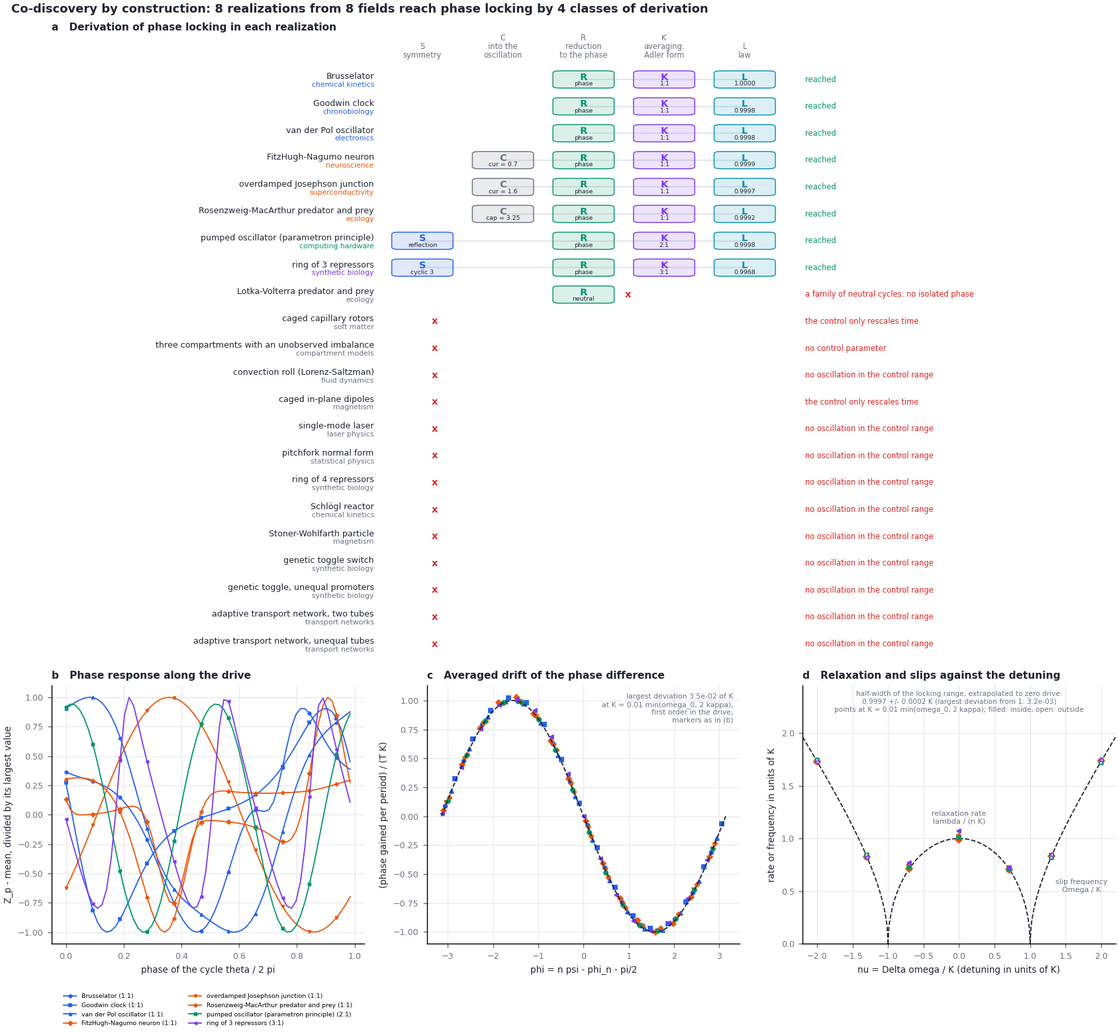
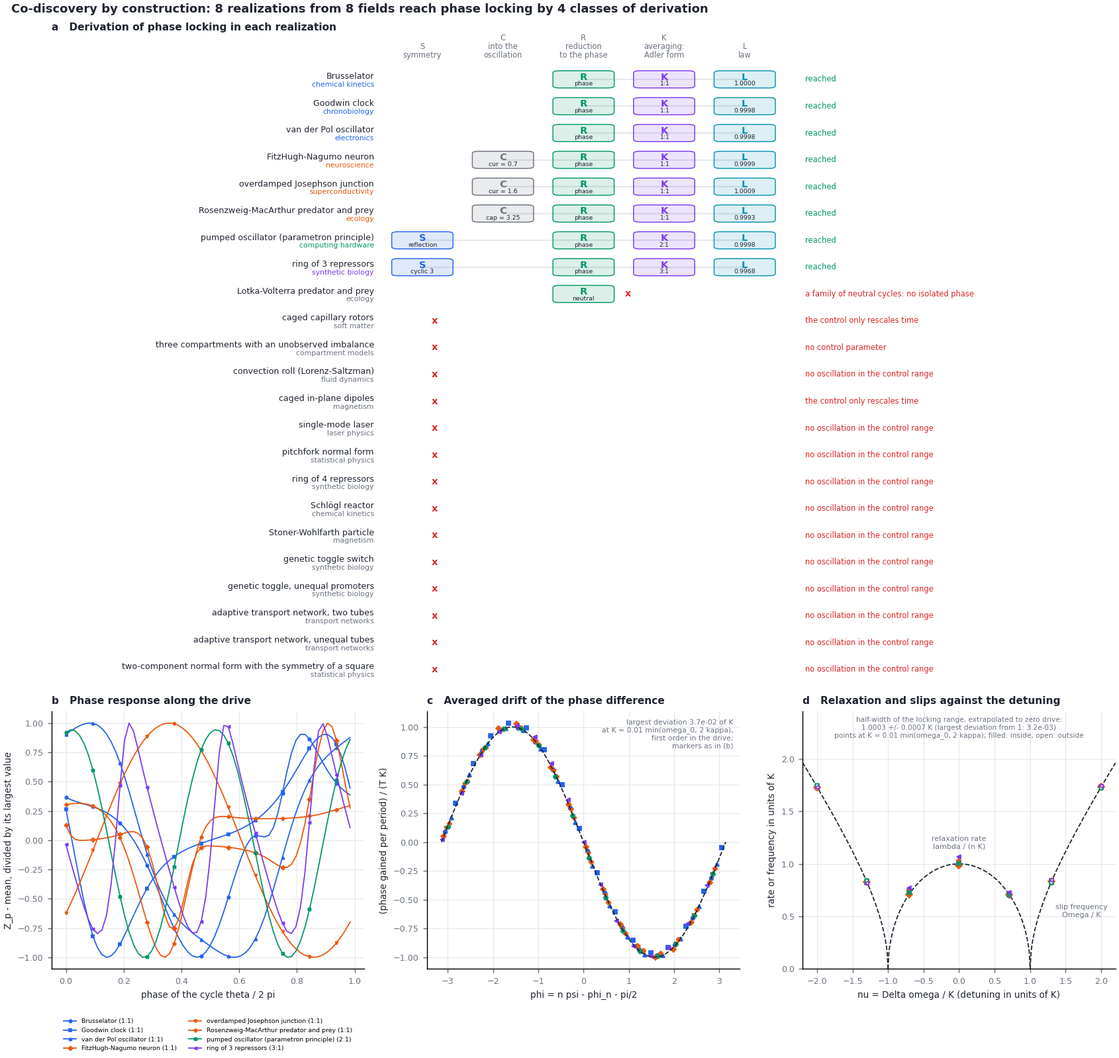
Seed each co-discovery derivation by its material, not by file order
memory codiscover passed one generator to every realization in the order of
the specification files, so a specification that sorted early re-drew every
later realization, and the default runs of Modules 9 to 11 changed whenever a
material was added although no equation had changed. codiscovery.codiscover
now takes the seed and gives each realization discovery.card_rng(seed, name),
the stream of its material, as the gallery and the catalog do since 614cb1d;
the replicate runs of the swept-write law are spawned from that stream as
before. A test inserts a specification that sorts first and checks that the
draws of the other materials, and the law runs of a derivation, are
unchanged.

The default runs of Modules 9 to 11 were repeated. Every derivation word and
class is unchanged; the numbers drawn from the streams moved:
- Module 9: law constant 1.350 +- 0.019 over seven models, chi^2 = 5.0 for 7
  values (was 1.326 +- 0.019, chi^2 = 3.5); seeds 11 to 14 now give 1.342,
  1.352, 1.310 and 1.323. Largest even part 2.2e-9 (ring of 4; was 9e-10).
  The table gains the two-component normal form, which stops at R.
- Module 10: the capillary rotors and the dipoles write toward other sampled
  pairs (h = 4.2912 and 0.1776; main still gives the documented 1.6335 and
  0.02038). For the new dipole pair the fast sweeps start off the branch of
  the occupied state, and the delay fit gives 1.08 +- 0.31, which does not
[…]

diff --git a/tests/test_memory_constructor.py b/tests/test_memory_constructor.py
@@ -544,7 +544,7 @@ def test_above_six_variables_a_ring_is_turned_and_reflected_cell_by_cell():
 
 def test_the_write_law_has_the_same_constant_in_a_laser_and_a_toggle():
     from fieldbridge.memory import codiscovery as cd
-    rep = cd.codiscover([load("laser"), load("toggle")], np.random.default_rng(5), n_traj=1000)
+    rep = cd.codiscover([load("laser"), load("toggle")], 5, n_traj=1000)
     s = rep["summary"]
     assert s["reached"] == 2 and s["fields_reached"] == ["laser physics", "synthetic biology"]
     assert len(s["derivation_classes"]) == 2
@@ -555,8 +555,7 @@ def test_realizations_that_simulate_the_same_equations_count_as_one_model():
     """The unequal toggle, unfolded to equal promoters, is the toggle: its law constant is a replicate of the
     toggle's, not a second model. The laser reduces to the same canonical form by other equations."""
     from fieldbridge.memory import codiscovery as cd
-    rep = cd.codiscover([load(n) for n in ("toggle", "toggle_unequal", "laser")], np.random.default_rng(3),
-                        n_traj=400, replicates=4)
+    rep = cd.codiscover([load(n) for n in ("toggle", "toggle_unequal", "laser")], 3, n_traj=400, replicates=4)
     s = rep["summary"]
     assert s["law_constant_realizations"] == 3 and s["law_constant_dof"] == 2
     assert s["same_equations"] == [[load("toggle").name, load("toggle_unequal").name]]
@@ -772,6 +771,45 @@ def test_codiscover_command_writes_report_and_figure(tmp_path):
     assert report["summary"]["ratios"] == {"1:1": ["van der Pol oscillator"]}
     assert [r["status"] for r in report["rows"]] == ["reached", "obstructed"]
     assert (out3 / "codiscover.png").stat().st_size > 0
+
+
+def test_adding_a_specification_leaves_the_random_streams_of_the_other_derivations_unchanged(tmp_path, monkeypatch):
+    """Each realization draws the stream of its own material. With one stream shared in the order of the files, a
+    specification that sorted first re-drew every later realization, and the law constants of the default run of
+    Module 9 moved although no equation had changed."""
+    import argparse
+    import shutil
+    from fieldbridge.memory import cli, codiscovery as cd
+    # the derivation itself: the runs of the law, spawned from the stream of the material, are the same
+    alone = cd.codiscover([load("pitchfork")], 7, n_traj=64, replicates=2)["rows"][0]
+    behind = cd.codiscover([load("laser"), load("pitchfork")], 7, n_traj=64, replicates=2)["rows"][1]
+    assert alone["law"]["runs"] == behind["law"]["runs"] and alone["law_constant"] == behind["law_constant"]
+    drawn = {}
+
+    def derive(real, rng, check_law=True, n_traj=0, replicates=1):
+        drawn[real.name] = rng.random(4).tolist()
+        return {"name": real.name, "field": "", "status": "obstructed", "obstruction": "no control parameter",
+                "obstruction_short": "no control parameter", "word": "", "route": "", "class": "", "steps": []}
+
+    monkeypatch.setitem(cd.TARGETS, "symmetric-write", derive)
+    folder = tmp_path / "memory"
+    folder.mkdir()
+    for name in ("schlogl.json", "toggle.json"):
+        shutil.copy(EX / name, folder / name)
+
+    def run():
+        drawn.clear()
+        cli.cmd_codiscover(argparse.Namespace(specs=[], examples=str(folder), target="symmetric-write", seed=20260923,
+                                              no_law=True, trajectories=400, replicates=8,
+                                              out_dir=str(tmp_path / "out"), no_figure=True))
+        return dict(drawn)
+
+    before = run()
+    shutil.copy(EX / "laser.json", folder / "a_laser.json")  # sorts before the other two
+    after = run()
+    assert set(after) == set(before) | {"single-mode laser"}
+    assert all(after[name] == before[name] for name in before)
+    assert len({tuple(d) for d in after.values()}) == 3  # different materials draw different streams
 
 
 def test_the_magnet_is_a_single_domain_particle_with_the_astroid():

diff --git a/fieldbridge/memory/codiscovery.py b/fieldbridge/memory/codiscovery.py
@@ -62,6 +62,7 @@ import numpy as np
 
 from . import analysis as an
 from .construct import along_path, cancel_asymmetry, obstruction, same_equations, swept_write_check
+from .discovery import card_rng
 from .identity import Realization
 
 LAW_CONSTANT = pi ** 0.25
@@ -674,11 +675,16 @@ TARGETS = {"symmetric-write": derive_symmetric_write, "threshold-write": derive_
            "phase-locking": derive_phase_locking}
 
 
-def codiscover(reals: List[Realization], rng, target: str = "symmetric-write", check_law: bool = True,
+def codiscover(reals: List[Realization], seed: int, target: str = "symmetric-write", check_law: bool = True,
                n_traj: int = 400, replicates: int = 1) -> Dict[str, object]:
-    """Derive the target in every realization and compare the ends: derivation classes, fields and invariants."""
+    """Derive the target in every realization and compare the ends: derivation classes, fields and invariants.
+
+    Each realization draws its own random stream, from the seed and its name (discovery.card_rng), and the replicate
+    runs of its law are spawned from that stream: adding or removing a realization leaves the rows of the others
+    unchanged."""
     info = TARGET_INFO[target]
-    rows = [TARGETS[target](r, rng, check_law=check_law, n_traj=n_traj, replicates=replicates) for r in reals]
+    rows = [TARGETS[target](r, card_rng(seed, r.name), check_law=check_law, n_traj=n_traj, replicates=replicates)
+            for r in reals]
     reached = [r for r in rows if r["status"].startswith("reached")]
     classes: Dict[str, List[str]] = {}
     for r in reached:

diff --git a/fieldbridge/memory/cli.py b/fieldbridge/memory/cli.py
@@ -468,7 +468,6 @@ def cmd_gallery(args) -> int:
 
 
 def cmd_codiscover(args) -> int:
-    import numpy as np
     from . import codiscovery, spec
     dirs = [args.examples] if args.examples else codiscovery.TARGET_INFO[args.target].get("examples",
                                                                                          ("examples/memory",))
@@ -479,7 +478,7 @@ def cmd_codiscover(args) -> int:
             reals.append(spec.load(path))
         except spec.SpecError as err:
             skipped.append(f"{path.name}: {err}")
-    rep = codiscovery.codiscover(reals, np.random.default_rng(args.seed), target=args.target,
+    rep = codiscovery.codiscover(reals, args.seed, target=args.target,
                                  check_law=not args.no_law, n_traj=args.trajectories, replicates=args.replicates)
     out = Path(args.out_dir)
     report = {"command": "codiscover", **_provenance(),

diff --git a/docs/tutorial/25_memory_threshold_write.md b/docs/tutorial/25_memory_threshold_write.md
@@ -2,7 +2,7 @@
 
 **Learning objectives.** After this module you can
 
-1. derive the threshold write, a fold, along the control or by a write field, and read the three classes of its
+1. derive the threshold write, a fold, along the control or by a write field, and read the four classes of its
    derivation;
 2. explain why a symmetry that permits the symmetric write forbids a threshold along the same parameter, and why
    the threshold write is reached in more models;
@@ -22,9 +22,9 @@ $$
 at which the occupied state meets an unstable state and disappears, and the material switches to another stored
 state. A threshold write needs no symmetry, and a symmetry is its obstruction: a symmetry that reverses the critical
 mode forbids the quadratic term. The constructor therefore first follows the control (C, R). If the write point
-along the control is a pitchfork or a Hopf bifurcation, or if the control only rescales the drift, it applies a
-bounded field toward another stored state (W, acting on the protocol $P$) and raises it until the occupied state
-disappears; this value is the coercive field. In the coordinate $x = a_2 s$, with $\mu = a_2 b\,(p - p_f)$ and $b$
+along the control is a pitchfork, a degenerate critical mode or a Hopf bifurcation, or if the control only rescales
+the drift, it applies a bounded field toward another stored state (W, acting on the protocol $P$) and raises it
+until the occupied state disappears; this value is the coercive field. In the coordinate $x = a_2 s$, with $\mu = a_2 b\,(p - p_f)$ and $b$
 the push of the parameter $p$ along the critical mode, the reduced drift is $\mu + x^2$ (K).
 
 The letters S, C and R act as in Module 9. Three letters are new or take another form:
@@ -55,17 +55,20 @@ The command takes about one minute.
 | Stoner–Wohlfarth particle | magnetism | SCRWRKL | $h = 0.1847$ | −0.438 | 1.0187929 ± 0.0000007 |
 | ring of 4 repressors | synthetic biology | SCRWRKL | $h = 1.5988$ | 2.975 | 1.018793 ± 0.000014 |
 | two equal tubes | transport networks | SCRWRKL | $h = 0.06396$ | 0.163 | 1.0187929 ± 0.0000009 |
-| caged capillary rotors | soft matter | WRKL | $h = 1.6335$ | 0.037 | 1.0187929 ± 0.0000005 |
-| caged in-plane dipoles | magnetism | WRKL | $h = 0.02038$ | 0.747 | 1.01887 ± 0.00045 |
+| two-component normal form, square symmetry | statistical physics | CRWRKL | $h = 0.1062$ | −0.713 | 1.0187929 ± 0.0000009 |
+| caged capillary rotors | soft matter | WRKL | $h = 4.2912$ | −0.019 | 1.0187930 ± 0.0000005 |
+| caged in-plane dipoles | magnetism | WRKL | $h = 0.1776$ | 3.205 | 1.08 ± 0.31 |
 | ring of 3 repressors | synthetic biology | CR | stops: no stable state | — | — |
 | three compartments | compartment models | — | stops: a single stable state | — | — |
 
-Twelve models from eight fields reach the target by three classes of derivation: by the control, C R(fold) K L; by a
-field after a symmetric write point, S C R(pitchfork) W R(fold) K L; and by a field where the control only rescales
-the drift, W R(fold) K L. In the second class the symmetry that forces a pitchfork along the control also forbids a
-threshold there. A field toward one of the two states breaks the symmetry, and the occupied state disappears at the
-coercive field; for the Landau model, $\dot x = x - x^3 - h$, this is $h_c = 2/(3\sqrt3) = 0.3849$. The cubic
-coefficient $c_3$ of the canonical form, the leading correction to Eq. (1), differs between the models.
+Thirteen models from eight fields reach the target by four classes of derivation: by the control, C R(fold) K L; by a
+field after a symmetric write point, S C R(pitchfork) W R(fold) K L; by a field after a write point at which two
+directions become critical together (Module 9, Section 5), C R(degenerate critical mode) W R(fold) K L; and by a
+field where the control only rescales the drift, W R(fold) K L. In the second class the symmetry that forces a
+pitchfork along the control also forbids a threshold there. A field toward one of the two states breaks the symmetry,
+and the occupied state disappears at the coercive field; for the Landau model, $\dot x = x - x^3 - h$, this is
+$h_c = 2/(3\sqrt3) = 0.3849$. The cubic coefficient $c_3$ of the canonical form, the leading correction to Eq. (1),
+differs between the models.
 
 ![Derivations of the threshold write and the delay of the switch](figures/memory/m9_threshold.png)
 
@@ -123,17 +126,25 @@ converges, and the fit contains the term
 largest of three numbers: the change when the fourth-order term is left out, the largest change when one rate is
 left out, and $5 \times 10^{-7}$, the accuracy of the canonical scale $a_2 b$ and of the integration.
 
-In ten of the eleven models the constant lies within $1.2 \times 10^{-6}$ of $\lvert a_1'\rvert$, and the weighted
-mean is $1.0187929 \pm 0.0000003$. The slopes of the corrections differ, from $-0.45$ for the laser to $+0.40$ for
-the ring of four, as the fifth-order coefficients did for the symmetric write (Module 9, Section 6). For the unequal
-tubes the corrections are large and alternate in sign: the sweep at $r = 10^{-3}$ lies above the limit, the sweep
-at $r = 3 \times 10^{-5}$ 0.32% below it, and the slowest one still 0.1% below. Their constant,
-$1.01877 \pm 0.00029$, is the least certain and lies $2 \times 10^{-5}$ from $\lvert a_1'\rvert$.
+In eleven of the thirteen models the constant lies within $1.2 \times 10^{-6}$ of $\lvert a_1'\rvert$, and the
+weighted mean is $1.0187930 \pm 0.0000002$. Apart from the dipoles (below), the slopes of the corrections range from
+$-0.45$ for the laser to $+0.40$ for the ring of four, as the fifth-order coefficients differed for the symmetric
+write (Module 9, Section 6). For
+the unequal tubes the corrections are large and alternate in sign: the sweep at $r = 10^{-3}$ lies above the limit,
+the sweep at $r = 3 \times 10^{-5}$ 0.32% below it, and the slowest one still 0.1% below. Their constant,
+$1.01877 \pm 0.00029$, lies $2 \times 10^{-5}$ from $\lvert a_1'\rvert$.
+
+For the caged in-plane dipoles the field writes from one sampled stored state to another. The pair drawn in this run
+has a small quadratic coefficient, $a_2 = -0.078$, and a large cubic one, $c_3 = 3.2$, so a canonical rate corresponds
+to a wide range of the field. The fast sweeps then start at a reversed field, away from the branch of the occupied
+state: at $r = 3 \times 10^{-4}$ no stationary state is found at the start, and that rate is left out; at
+$r = 10^{-3}$ the sweep starts on a distant state and crosses at $6.8\,r^{2/3}$. The fit is dominated by this sweep
+and gives $1.08 \pm 0.31$, which does not test the law; the slowest sweeps lie 0.3% above $\lvert a_1'\rvert$.
 
 The law holds in the limit of small noise. In the variables of Eq. (2) the noise intensity is $a_2^2 D_s/r$, so the
 deterministic delay is observed for sweeps faster than the rate $a_2^2 D_s$ given in the report; slower sweeps
 switch earlier, by activation over the vanishing barrier. At the noise of the specifications this rate is
-$2 \times 10^{-3}$ for the laser and 800 for the capillary rotors, whose switch is therefore always activated.
+$2 \times 10^{-3}$ for the laser and 330 for the capillary rotors, whose switch is therefore always activated.
 
 ## 4. The two write targets compared
 
@@ -148,6 +159,7 @@ $2 \times 10^{-3}$ for the laser and 800 for the capillary rotors, whose switch 
 | toggle, unequal promoters | synthetic biology | C R U R K L | C R K L |
 | two equal tubes | transport networks | stops at R (subcritical) | S C R W R K L |
 | two unequal tubes | transport networks | stops at U | C R K L |
+| two-component normal form | statistical physics | stops at R (degenerate mode) | C R W R K L |
 | capillary rotors, dipoles | soft matter, magnetism | stop at C | W R K L |
 | ring of 3 repressors | synthetic biology | stops at R (Hopf) | stops: no stable state |
 | three compartments | compartment models | stops at C | stops: a single stable state |
@@ -156,7 +168,8 @@ The two targets are complementary. A symmetry makes the symmetric write possible
 along the same parameter; a field that breaks the symmetry restores the threshold. Without a symmetry the write
 along the control is a fold, and the symmetric write needs a second parameter tuned to the cusp, where two folds
 merge into a pitchfork. A fold is the generic way for a state to disappear, whereas a pitchfork requires a symmetry
-or a tuned parameter; the threshold write is therefore reached in eleven models and the symmetric write in seven.
+or a tuned parameter; the threshold write is therefore reached in thirteen of the fifteen models and the symmetric
+write in eight.
 
 ## 5. A model from your field
 
@@ -194,11 +207,13 @@ specification.
 
 ## Summary
 
-- The threshold write, a fold, is reached in twelve models from eight fields by three classes of derivation: by the
-  control, or by a write field where a symmetry or a scale control prevents a threshold along the control.
+- The threshold write, a fold, is reached in thirteen models from eight fields by four classes of derivation: by the
+  control, or by a write field where a symmetry, a degenerate critical mode or a scale control prevents a threshold
+  along the control.
 - The switch lags behind a sweep by $\mu = \lvert a_1'\rvert r^{2/3}$; the constant $\lvert a_1'\rvert = 1.0187930$,
-  the first zero of $\mathrm{Ai}'$, is recovered to $1.2 \times 10^{-6}$ in ten models and to $2 \times 10^{-5}$ in the
-  eleventh, within its uncertainty in each.
+  the first zero of $\mathrm{Ai}'$, is recovered to $1.2 \times 10^{-6}$ in eleven models and to $2 \times 10^{-5}$ in
+  the unequal tubes, within its uncertainty in each. For the pair of dipole states drawn in the default run the fast
+  sweeps start off the branch of the occupied state, and the fit does not test the law.
 - An error of the located fold adds a term $\delta\,r^{-2/3}$ to the measured constant; the fit contains it.
 - The Schlögl reactor with the parameters of the example is exactly the Landau model in a field.
 - A symmetry makes the symmetric write possible and the threshold write impossible along the same parameter; a

diff --git a/docs/tutorial/23_memory_codiscovery.md b/docs/tutorial/23_memory_codiscovery.md
@@ -67,17 +67,18 @@ It writes `codiscover.json`, `codiscover.md` and `codiscover.png` and takes abou
 
 | Realization | Field | Derivation | Result | Write point | Law constant |
 | --- | --- | --- | --- | --- | --- |
-| single-mode laser | laser physics | SCRKL | reached | $P = 1$ | 1.360 ± 0.051 |
-| convection roll | fluid dynamics | SCRKL | reached | $r = 1$ | 1.320 ± 0.058 |
-| pitchfork normal form | statistical physics | SCRKL | reached | $\varepsilon = 0$ | 1.383 ± 0.051 |
-| ring of 4 repressors | synthetic biology | SCRKL | reached | $\alpha = 1.013$ | 1.323 ± 0.068 |
-| genetic toggle switch | synthetic biology | SCRKL | reached | $\alpha = 2$ | 1.284 ± 0.050 |
-| Stoner–Wohlfarth particle | magnetism | SCRKL | reached | $h = 1$ | 1.314 ± 0.051 |
-| Schlögl reactor | chemical kinetics | CRURKL | reached after unfolding | cusp $a = 4.153$, $b = 2.654$ | 1.257 ± 0.054 |
-| toggle, unequal promoters | synthetic biology | CRURKL | reached after unfolding | cusp $\gamma = 1.000$, $\alpha = 2.000$ | 1.371 ± 0.061 |
+| single-mode laser | laser physics | SCRKL | reached | $P = 1$ | 1.374 ± 0.051 |
+| convection roll | fluid dynamics | SCRKL | reached | $r = 1$ | 1.354 ± 0.063 |
+| pitchfork normal form | statistical physics | SCRKL | reached | $\varepsilon = 0$ | 1.292 ± 0.050 |
+| ring of 4 repressors | synthetic biology | SCRKL | reached | $\alpha = 1.013$ | 1.427 ± 0.052 |
+| genetic toggle switch | synthetic biology | SCRKL | reached | $\alpha = 2$ | 1.346 ± 0.061 |
+| Stoner–Wohlfarth particle | magnetism | SCRKL | reached | $h = 1$ | 1.340 ± 0.051 |
+| Schlögl reactor | chemical kinetics | CRURKL | reached after unfolding | cusp $a = 4.153$, $b = 2.654$ | 1.348 ± 0.051 |
+| toggle, unequal promoters | synthetic biology | CRURKL | reached after unfolding | cusp $\gamma = 1.000$, $\alpha = 2.000$ | 1.323 ± 0.050 |
 | ring of 3 repressors | synthetic biology | CR | stops at R: Hopf | — | — |
 | two equal tubes | transport networks | SCR | stops at R: subcritical | — | — |
 | two unequal tubes | transport networks | CR | stops at U: no supercritical cusp | — | — |
+| two-component normal form, square symmetry | statistical physics | CR | stops at R: degenerate critical mode | — | — |
 | caged capillary rotors | soft matter | — | stops at C: the control rescales the drift | — | — |
 | caged in-plane dipoles | magnetism | — | stops at C: the control rescales the drift | — | — |
 | three compartments | compartment models | — | stops at C: no control | — | — |
@@ -154,10 +155,11 @@ A derivation that stops is a result: it names the property of the model that dif
 | ring of 3 repressors | R | A complex pair crosses (Hopf). A cyclic symmetry of order 3 cannot reverse a real mode: if $gv = -v$, then $v = g^3 v = -v$. The model stores a phase instead (Module 6). |
 | two equal tubes | R | The exchange symmetry forces a pitchfork, but not the sign of its cubic term. Here $a_3 > 0$, and the written state jumps to a distant branch. |
 | two unequal tubes | U | The write is a fold, and its cusp, at equal lengths, is the subcritical pitchfork of the equal tubes. |
+| two-component normal form, square symmetry | R | Two directions become critical together at $\varepsilon = 0$: a degenerate critical mode (below). |
 | capillary rotors, dipoles | C | The control multiplies the whole drift. It changes the depth of the landscape and not its shape, so a state is written by a field (Module 4). |
 | three compartments | C | There is no control parameter. |
 
-A degenerate critical mode also stops a derivation at R. When a symmetry makes the critical eigenvalue degenerate,
+A degenerate critical mode stops a derivation at R. When a symmetry makes the critical eigenvalue degenerate,
 two or more directions become critical at the same value of the control, and the drift reduced to one coordinate
 does not describe the write: the write chooses a direction in the critical eigenspace, not one of two states. R
 counts the eigenvalues whose real part is zero at the write point to the accuracy of the continuation, that is,
@@ -184,7 +186,7 @@ shows the four states and the two directions that become critical together at $\
 
 **The canonical form.** In the coordinate $x$ the reduced drift at the write point is $\sum_n c_n x^n$. The cubic
 coefficient $c_3 = -1$ by the choice of units, so the check lies in the other coefficients. In every model that
-reaches the target, the even part is below $10^{-9}$ of the cubic term at the edge of the fitted window,
+reaches the target, the even part is at most $2 \times 10^{-9}$ of the cubic term at the edge of the fitted window,
 and $c_3 < 0$. The fifth-order coefficient differs between the models: $c_5 = 1.8$ for the laser (2 from Eq. (2);
 the remainder comes from seventh-order terms within the window), 1.26 for the toggle, 0.76 for the ring, 0.46 for
 the Stoner–Wohlfarth particle (1/2 from the expansion of its energy), −0.07 for the convection roll and 0 for the
@@ -201,15 +203,15 @@ $$
 $$
 
 The trajectories of each realization are split into eight runs on independent random streams, and the error of a
-constant is the larger of the scatter of the runs and the binomial error of the pooled accuracy. With 2000
-trajectories per realization and the default seed, the seven models have a weighted mean of $1.326 \pm 0.019$,
-against $\pi^{1/4} = 1.331$, with $\chi^2 = 3.5$ for 7 values. The realizations share one random stream in the order
-of their files, so adding a specification changes the draws of those after it: before the convection roll was added,
-the same command gave $1.394 \pm 0.020$ for six models, three standard errors above the law. Repeated with 16 other
-seeds, the accuracies scatter as their binomial errors predict, and the seeds 11 to 14 gave weighted means of 1.311,
-1.298, 1.375 and 1.317. A run of this size moves by a few standard errors from seed to seed; the record below is the
-precise test. The constant depends only on the canonical form. A derivation that
-ended on another mechanism, such as a fold, would give an accuracy that does not follow Eq. (3).
+constant is the larger of the scatter of the runs and the binomial error of the pooled accuracy. Each realization
+draws these streams from its own generator, set by the seed and the name of the material, so adding or removing a
+specification leaves the constants of the other realizations unchanged. With 2000 trajectories per realization and
+the default seed, the seven models have a weighted mean of $1.350 \pm 0.019$, against $\pi^{1/4} = 1.331$, with
+$\chi^2 = 5.0$ for 7 values. The seeds 11 to 14 give weighted means of 1.342, 1.352, 1.310 and 1.323. The accuracies
+scatter between seeds as their binomial errors predict (a test with 16 seeds on three of the models), so one run of
+this size tests the constant to about 0.02; the record below is the precise test. The constant depends only on the
+canonical form. A derivation that ended on another mechanism, such as a fold, would give an accuracy that does not
+follow Eq. (3).
 
 The record of the [web page](https://synthetix-institute.github.io/fieldbridge/) uses 25,600 trajectories per
 realization in eight runs of 3200, for which the error of one constant is 0.014 to 0.021. Ten realizations reach

diff --git a/docs/tutorial/26_memory_phase_locking.md b/docs/tutorial/26_memory_phase_locking.md
@@ -63,14 +63,14 @@ targets. The command takes about 15 minutes on a laptop, or 2 minutes with `--no
 | Brusselator | chemical kinetics | RKL | $b = 3$ | 1:1 | 0.5120 | 1.0000 ± 0.0025 |
 | Goodwin clock | chronobiology | RKL | $\mathrm{tr} = 10$ | 1:1 | 0.1579 | 0.9998 ± 0.0042 |
 | FitzHugh–Nagumo neuron | neuroscience | CRKL | current $= 0.7$ | 1:1 | 0.2128 | 0.9999 ± 0.0032 |
-| Rosenzweig–MacArthur predator and prey | ecology | CRKL | capacity $= 3.25$ | 1:1 | 0.0591 | 0.9992 ± 0.0073 |
-| overdamped Josephson junction | superconductivity | CRKL | current $= 1.6$ | 1:1 | 0.4003 | 0.9997 ± 0.0002 |
+| Rosenzweig–MacArthur predator and prey | ecology | CRKL | capacity $= 3.25$ | 1:1 | 0.0591 | 0.9993 ± 0.0072 |
+| overdamped Josephson junction | superconductivity | CRKL | current $= 1.6$ | 1:1 | 0.4003 | 1.0009 ± 0.0010 |
 | pumped oscillator (parametron principle) | computing hardware | SRKL | $k = 1$ | 2:1 | 0.2542 | 0.9998 ± 0.0015 |
 | ring of 3 repressors | synthetic biology | SRKL | $\alpha = 10$ | 3:1 | 0.0165 | 0.997 ± 0.019 |
 | Lotka–Volterra predator and prey | ecology | R | stops at R: a family of neutral cycles | — | — | — |
 | capillary rotors, dipoles | soft matter, magnetism | — | stop: the control only rescales time | — | — | — |
 | three compartments | compartment models | — | stops: no control | — | — | — |
-| models of the write targets | six fields | — | stop at C: no oscillation in the control range | — | — | — |
+| models of the write targets | seven fields | — | stop at C: no oscillation in the control range | — | — | — |
 
 Eight models from eight fields reach the target by four classes of derivation. Three oscillate as specified (R K L).
 Three must first be moved into oscillation (C R K L). The FitzHugh–Nagumo neuron is excitable without current and
@@ -128,11 +128,11 @@ harmonic. The models of the write targets stop at C, since none oscillates in it
 
 ## 7. Two invariants
 
-The phase gained over one period in the driven model agrees with $TK\cos(n\psi-\phi_n)$ to 3.5%
+The phase gained over one period in the driven model agrees with $TK\cos(n\psi-\phi_n)$ to 3.7%
 of $K$ at $K = 0.01\min(\omega_0, 2\kappa)$ (Figure 1c); the deviation is of first order in the drive. In units of
 $K$ the measured relaxation rates and slip frequencies lie on the circle and the hyperbola of Eq. (1) (Figure 1d). A
 joint fit of both gives the half-width and the centre of the locking range. Extrapolated linearly in the amplitude
-from the two drives, the half-width is $1.0003 \pm 0.0006$ in units of $K$ ($\chi^2 = 0.86$ for 8 values), and no
+from the two drives, the half-width is $1.0003 \pm 0.0007$ in units of $K$ ($\chi^2 = 0.88$ for 8 values), and no
 model deviates from 1 by more than $3.2 \times 10^{-3}$. The largest uncertainty belongs to the ring of three, whose
 third harmonic is small ($\lvert Z_3\rvert = 0.033$), so that its drive must be strong and the second-order
 corrections are large. The centre moves in proportion to the amplitude, from $0.012K$ to $0.006K$ for the van der Pol
@@ -191,7 +191,7 @@ stops at R, the cycles form a neutral family.
   from eight fields by four classes of derivation.
 - A symmetry that maps the cycle onto itself $1/m$ of a period later sets the ratio $m:1$ (the parametron, the ring
   of three).
-- The half-width of the locking range is $1.0003 \pm 0.0006$ in units of $K = \varepsilon\lvert Z_n\rvert/2$.
+- The half-width of the locking range is $1.0003 \pm 0.0007$ in units of $K = \varepsilon\lvert Z_n\rvert/2$.
 - A family of neutral cycles, a control that only rescales time, and a control range without oscillation stop the
   derivation, each at a named letter.
 - Within the locking range the drive restores the phase, and the phase is lost only by slips.
